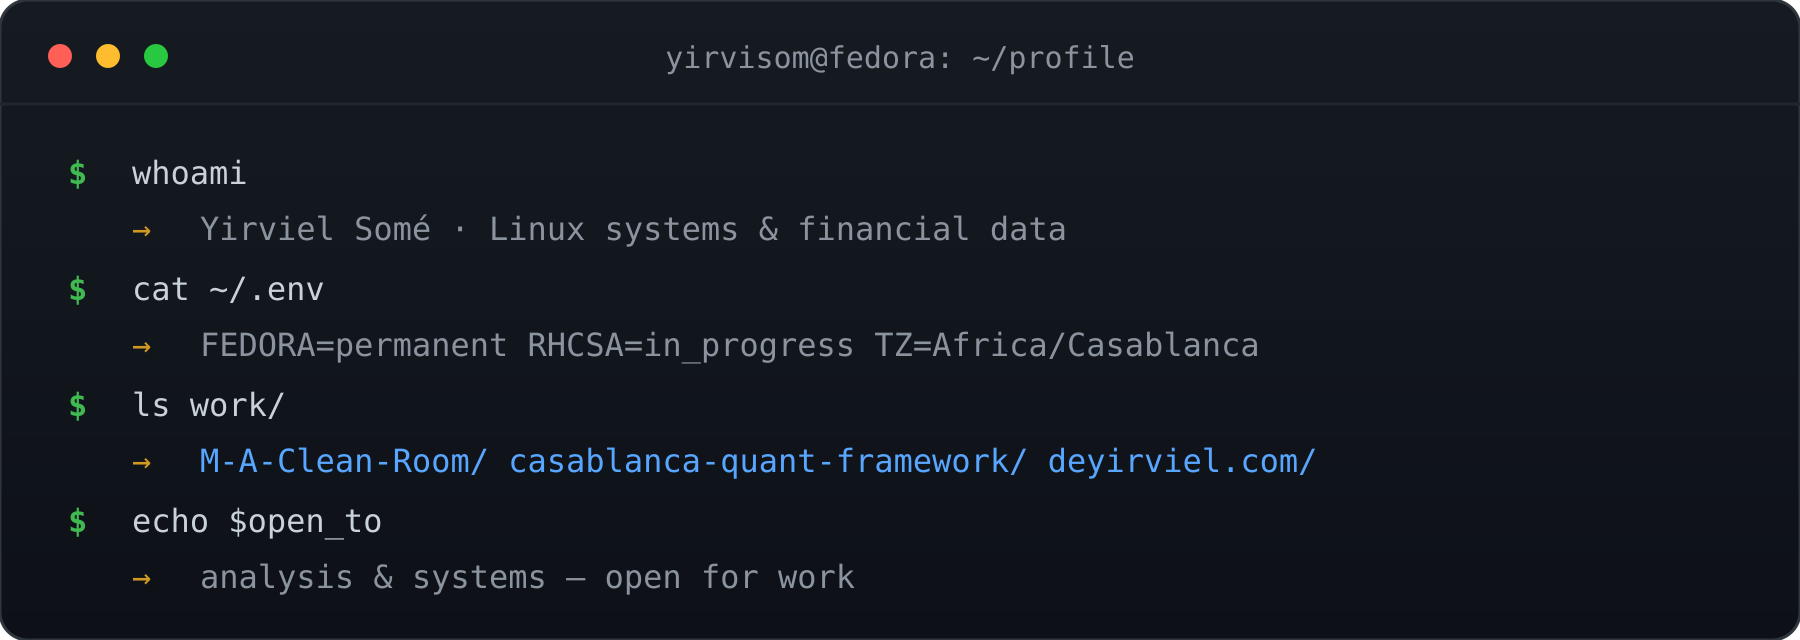
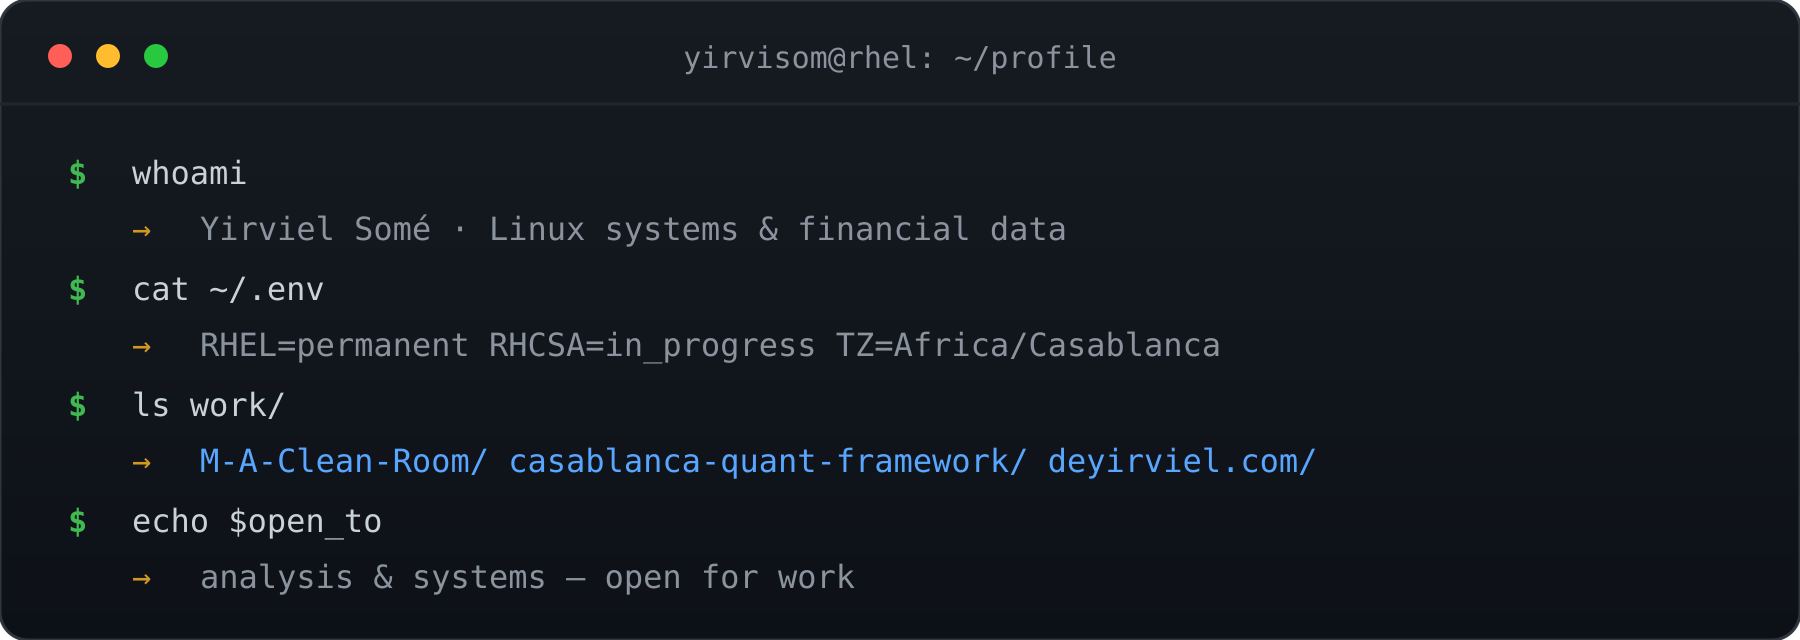
Switch profile identity to RHEL

Changed region(s): [[0.0933, 0.5, 0.7156, 0.5625], [0.3733, 0.0625, 0.6222, 0.125]]

diff --git a/README.md b/README.md
@@ -1,13 +1,13 @@
 ![banner](banner.png)
 
-**Yirviel Somé** — Linux & systems work, mostly self-hosted, mostly Fedora. On the
+**Yirviel Somé** — Linux & systems work, mostly self-hosted, on RHEL. On the
 RHCSA track, so expect hardening notes, labs, and reproducible setups as I go.
 
 Also on my desk: financial modeling & valuation → [deyirviel.com](https://deyirviel.com)
 
 ## Tech & tools
 
-![Fedora](https://img.shields.io/badge/Fedora-51A3DE?style=for-the-badge&logo=fedora&logoColor=white)
+![Red Hat Enterprise Linux](https://img.shields.io/badge/RHEL-EE0000?style=for-the-badge&logo=redhat&logoColor=white)
 ![RHCSA in progress](https://img.shields.io/badge/RHCSA-in_progress-6F42C1?style=for-the-badge)
 ![Linux](https://img.shields.io/badge/Linux-FCC624?style=for-the-badge&logo=linux&logoColor=black)
 ![Bash](https://img.shields.io/badge/Bash-4EAA25?style=for-the-badge&logo=gnubash&logoColor=white)
